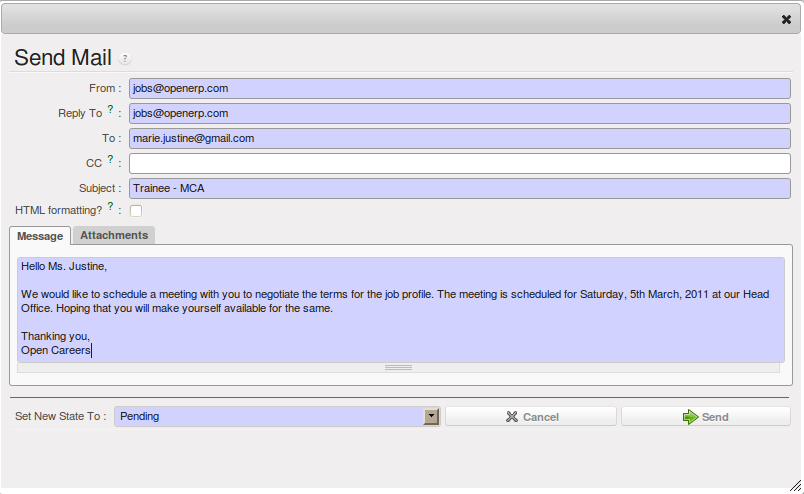
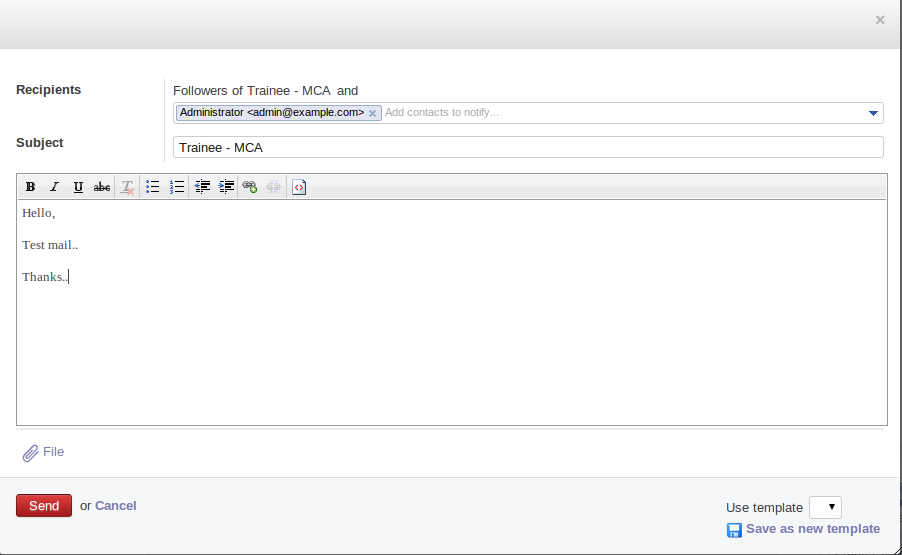
[IMP]:HR Management/Talent Acquisition removed:   source/book/4/4_11_HR/images/recruitment_comm_history.png   source/book/4/4_11_HR/images/recruitment_outbound_phone.png   source/book/4/4_11_HR/images/recruitment_sched_phone.png added:   source/book/4/4_11_HR/images/recruitment_send_message.png modi

diff --git a/4/4_11_HR/4_11_HR_hire_new_people.rst b/4/4_11_HR/4_11_HR_hire_new_people.rst
@@ -89,7 +89,7 @@ For this, you have to install the :mod:`fetchmail` module from module list and F
 
 After configuring your server, click the :guilabel:`Test & Confirm` button to enable this configuration and click on  Fetch `Now button` to start receiving e-mails.
 
-Whenever you receive a new e-mail at the configured e-mail address, a new applicant record is created having the same subject name as the e-mail subject. The applicants e-mail details are stored too, for future correspondence. You can add more details to this job application. You can view these newly created applicants from :menuselection:`Human Resources --> Recruitment --> Applicants`. In the figure :ref:`ejob`, the `Initial Qualification` applicants have been created automatically from received e-mails.
+Whenever you receive a new e-mail at the configured e-mail address, a new applicant record is created having the same subject name as the e-mail subject. The applicants e-mail details are stored too, for future correspondence. You can add more details to this job application. You can view these newly created applicants from :menuselection:`Human Resources --> Recruitment --> Applications`. In the figure :ref:`ejob`, the `Initial Qualification` applicants have been created automatically from received e-mails.
 
 .. _ejob:
 
@@ -134,20 +134,24 @@ The :guilabel:`Next Action Date` and :guilabel:`Next Action` fields on the `Appl
 .. index::
    single: recruitments; communication history
 
-Track the history of the e-mail communication with the applicant
+E-mail communication with the applicant
 ----------------------------------------------------------------
 
-Using the :guilabel:`Communication & History` tab in the `Applicants` form, you can add notes for internal reference or send e-mails to the applicant. You can also view the history of communication and notes for a recruitment application in the `History` section. If you specify e-mail addresses in the :guilabel:`Global CC` field, these e-mail addresses will be added to the :guilabel:`CC` field of all inbound and outbound e-mails for this record before being sent. You can separate multiple e-mail addresses with a comma.
+In 7.0 you can send message or email easily.
 
-To create an internal note, click the :guilabel:`Add Internal Note` button. Add a note description in the popup that appears. You also have a choice to change the application state at this stage. Click :guilabel:`Add` to save the note and see it listed in the `History` section.
+OpenChatter provides a simple communication tool to discuss amongst colleagues or external contacts, either with an individual or with a group.
 
-To send an e-mail to the applicant, click the :guilabel:`Send New Email` button. In the popup, you must enter the following:
+You can see OpenChatter below the applicants form and you can send message or mail via that chatter.
 
-* :guilabel:`From` : E-mail address used to send an e-mail.
-* :guilabel:`Reply To` : E-mail address for receiving a reply.
-* :guilabel:`To` : The applicants e-mail address
-* :guilabel:`Subject` : Subject of the e-mail. By default, it takes the subject of the recruitment application.
-* :guilabel:`Message` : The message to send in the e-mail.
+.. figure::  images/recruitment_send_message.png
+   :scale: 75
+   :align: center
+
+   *Send a message to the applicant*
+
+Here too , You may also add attachments through the OpenChatter. Click :guilabel:`Post` to send the message. 
+
+And for send a mail throgh Openchatter , the full window seems like follow:
 
 .. figure::  images/recruitment_send_mail.png
    :scale: 75
@@ -155,47 +159,7 @@ To send an e-mail to the applicant, click the :guilabel:`Send New Email` button.
 
    *Send an e-mail to the applicant*
 
-Here too, you have a choice to change the application state. You may also add attachments through the :guilabel:`Attachments` tab in the popup. Click :guilabel:`Send` to send the e-mail. You can see a listing of the correspondence as shown in the figure below:
-
-.. figure::  images/recruitment_comm_history.png
-   :scale: 75
-   :align: center
-
-   *History of communication for the recruitment application*
-
-.. index::
-   single: recruitments; phone calls
-   single: recruitments; appointments
-
-Plan phone calls or appointments
---------------------------------
-
-One of the advantages of using the :mod:`hr_recruitment` module is that you can plan and organise phone calls to and appointments with prospective employees. This is made possible due to its integration with :mod:`crm` module's Phone Calls and Meetings features.
-
-You can schedule a phone call from the `Applicants` form by clicking the :guilabel:`Phone Call` button. This brings up a popup as shown below:
-
-.. figure::  images/recruitment_sched_phone.png
-   :scale: 75
-   :align: center
-
-   *Schedule an outbound phone call to an applicant*
-
-You can enter the following details in the popup:
-
-* :guilabel:`Assign To` : The user who is responsible for making the call.
-* :guilabel:`Planned Date` : The scheduled date and time to make the call.
-* :guilabel:`Goals` : The agenda of the phone call.
-* :guilabel:`Category` : Whether the call is ``Outbound`` (default) or ``Inbound``.
-
-You can then click the :guilabel:`Schedule Phone Call` button to create a plan for making the call. If the :guilabel:`Category` of your phone call is ``Outbound``, the `Outbound` form opens where you may add additional details. Once you have made the phone call, you can enter the :guilabel:`Duration` as well and click the :guilabel:`Held` button. You can track and evolve your plans of phone calls to an applicant from :menuselection:`Sales --> Phone Calls --> Outbound`.
-
-.. figure::  images/recruitment_outbound_phone.png
-   :scale: 75
-   :align: center
-
-   *Details of an outbound phone call to an applicant*
-
-Just like you schedule phone calls, you can also schedule meetings with an applicant. To do this, click the :guilabel:`Meeting` button on the `Applicants` form. A calendar of meetings opens in the `Meetings` form. Here, you click an empty area on a date for which you wish to schedule the meeting. A popup appears as shown below:
+You can also schedule meetings with an applicant. To do this, click the :guilabel:`Schedule Meeting` button on the `Applicants` form. A calendar of meetings opens in the `Meetings` form. Here, you click an empty area on a date for which you wish to schedule the meeting. It shows as follow:
 
 .. figure::  images/recruitment_sched_meeting.png
    :scale: 75
@@ -205,9 +169,7 @@ Just like you schedule phone calls, you can also schedule meetings with an appli
 
 You can manage the following details from this form:
 
-* :guilabel:`Summary` : Is the recruitment application subject by default, although you can change it.
 * :guilabel:`Start Date` : The scheduled start date and time.
-* :guilabel:`End Date` : The scheduled end date and time.
 * :guilabel:`Duration` : The duration of the meeting in hours.
 * :guilabel:`Location` : Location of the meeting.
 * :guilabel:`Reminder` : If you want to be reminded about the meeting, you can select an alarm time before the event occurs.
